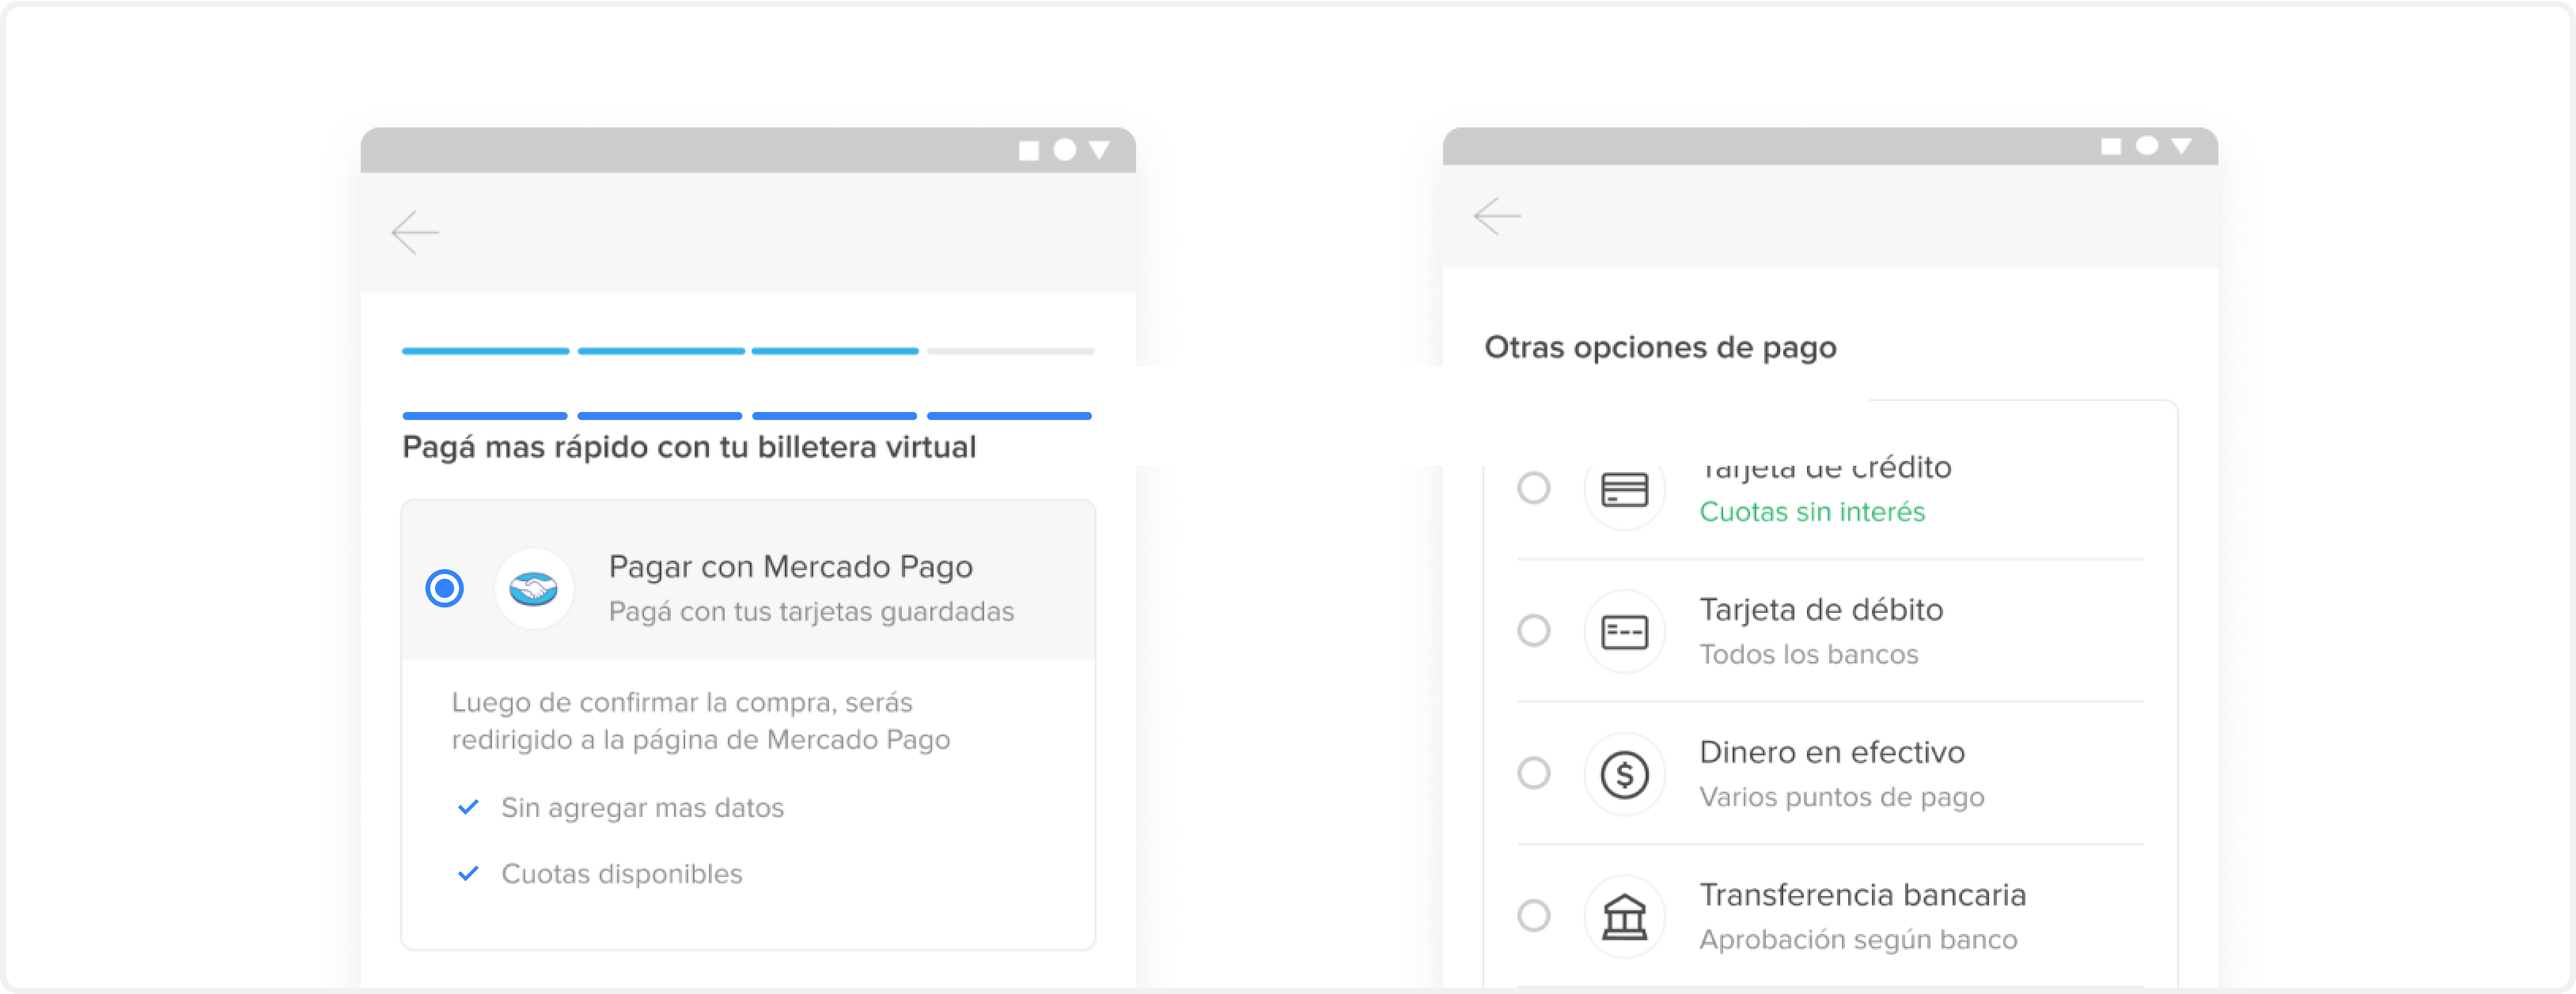
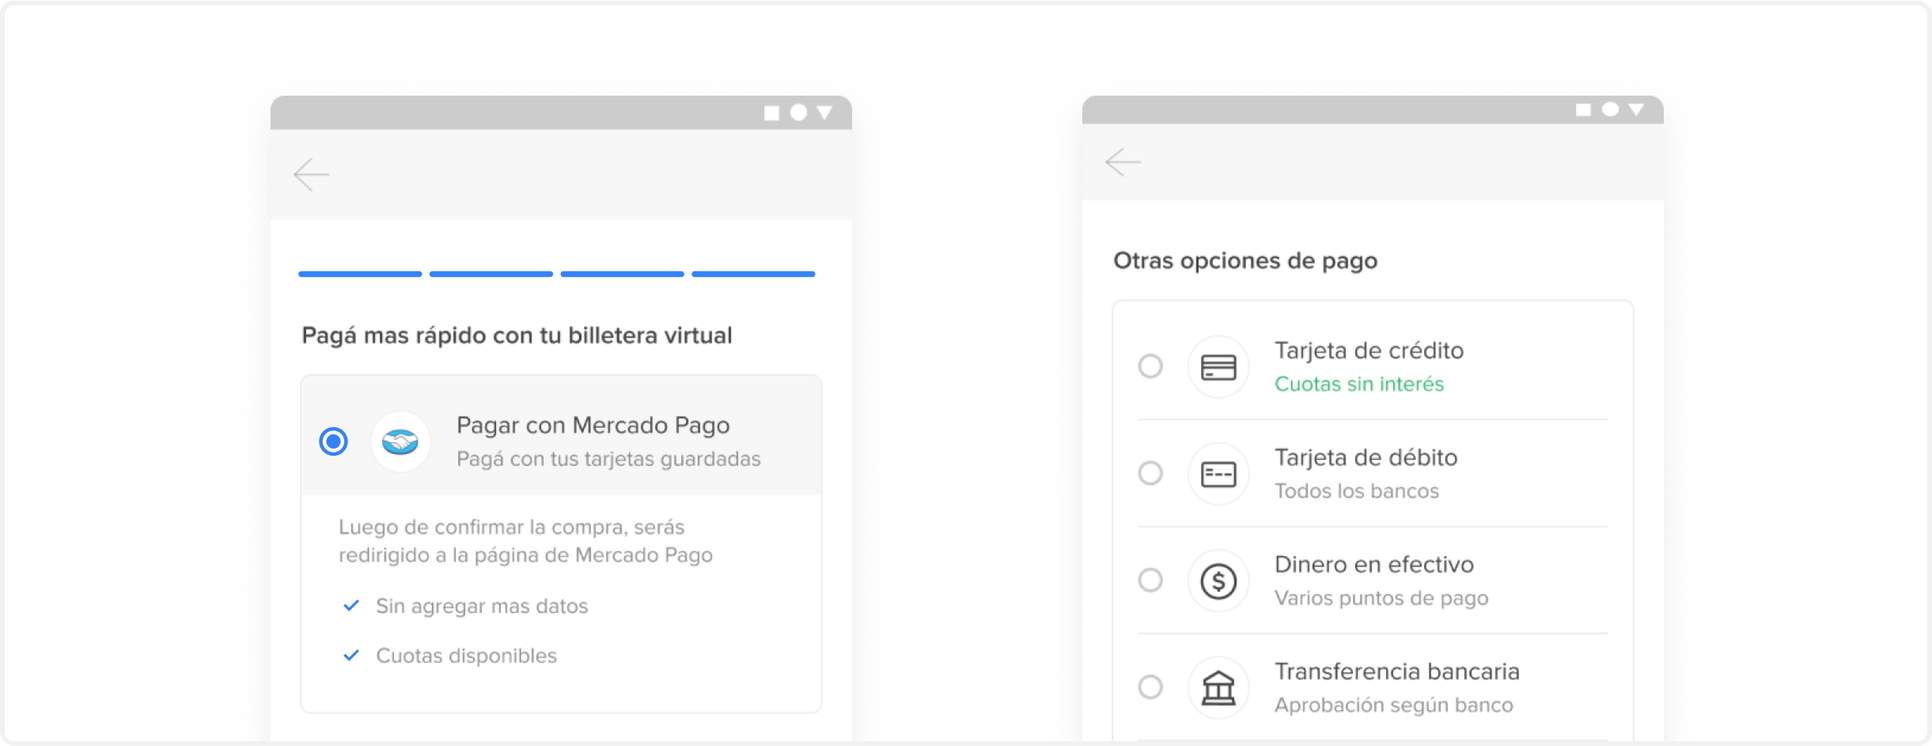
ajustes best practices

Changed region(s): [[0.1556, 0.3383, 0.4357, 0.4305], [0.6847, 0.4613, 0.7158, 0.492]]

diff --git a/guides/additional-content/best-practices/ux-for-checkouts/ease-of-conversion.en.md b/guides/additional-content/best-practices/ux-for-checkouts/ease-of-conversion.en.md
@@ -8,12 +8,12 @@ We recommend building a multi-step experience where each step focuses on a diffe
 
 For **mobile**, choose short steps that focus attention and are easy to navigate. Instead, for **desktop**, you can use one step experiences since the user has more extensive control over their actions and it is easier to find what they are looking for.
 
-![en Checkout agil](/images/best-practices-guide/EngCreaUnChoAgilIntro.png)
+![en Checkout agil](/images/best-practices-guide/provide-clear-steps-en.png)
 
 ## Offer consistency
 
 **Consistency** is a key aspect to provide coherence. If all the components or content of your checkout followed a different logic, users would not know how to act on them at each step. It helps us to establish patterns that users understand and remember. Try to be consistent both visually and textually. 
 
-![en Consistencia](/images/best-practices-guide/EngCreaUnChoAgilConsistenciaDoDonts.png)
+![en Consistencia](/images/best-practices-guide/offer-consistency-en.png)
 
 Now you have everything you need to create the best payment experience for your customers! Integrate our products and optimize your UX with these best practices.

diff --git a/guides/additional-content/best-practices/ux-for-checkouts/ease-of-conversion.pt.md b/guides/additional-content/best-practices/ux-for-checkouts/ease-of-conversion.pt.md
@@ -8,12 +8,12 @@ Aconselhamos que você construa uma experiência com diferentes etapas onde cada
 
 Para **dispositivos móveis**, opte por etapas curtas, que chamem a atenção do usuário e permitam uma navegação mais amigável. No caso do **desktop**, você pode usar experiências "one step", já que o usuário consegue controlar melhor suas ações, ficando mais fácil encontrar o que busca.
 
-![pt Checkout agil](/images/best-practices-guide/PortCreaUnChoAgilIntro.png)
+![pt Checkout agil](/images/best-practices-guide/provide-clear-steps-pt.png)
 
 ## Ofereça consistência 
 
 A **consistência** é um fator essencial para gerar coerência e congruência e ajuda a estabelecer padrões que os usuários entendam e lembrem. Busque manter a consistência visual e textual.
 
-![pt Consistencia](/images/best-practices-guide/PortCreaUnChoAgilConsistenciaDoDonts.png)
+![pt Consistencia](/images/best-practices-guide/offer-consistency-pt.png)
 
 Agora, você conta com todas as informações necessárias para criar a melhor experiência de pagamento para seus clientes. Integre nossos produtos e otimize a experiência do usuário com essas boas práticas.

diff --git a/guides/additional-content/best-practices/ux-for-checkouts/ease-of-conversion.es.md b/guides/additional-content/best-practices/ux-for-checkouts/ease-of-conversion.es.md
@@ -8,12 +8,12 @@ Te aconsejamos construir una experiencia de varios pasos en donde cada uno de el
 
 Para **mobile**, elige pasos cortos que enfoquen la atención y sean fáciles de recorrer. En cambio, para **desktop**, puedes utilizar experiencias one step ya que el usuario tiene un control más extenso sobre sus acciones y es más fácil encontrar lo que busca.
 
-![es Checkout agil](/images/best-practices-guide/EspCreaUnChoAgilIntro.png)
+![es Checkout agil](/images/best-practices-guide/provide-clear-steps-es.png)
 
 ## Ofrece consistencia 
 
 La **consistencia** es una cualidad necesaria para aportar coherencia y congruencia. Nos ayuda a establecer patrones que los usuarios entienden y recuerdan. Intenta ser consistente tanto a nivel visual como textual. 
 
-![es Consistencia](/images/best-practices-guide/EspCreaUnChoAgilConsistenciaDoDonts.png)
+![es Consistencia](/images/best-practices-guide/offer-consistency-es.png)
 
 ¡Ya tienes todo lo que necesitas para crear la mejor experiencia de pago para tus clientes! Integra nuestros productos y optimiza su UX con estas buenas prácticas.
